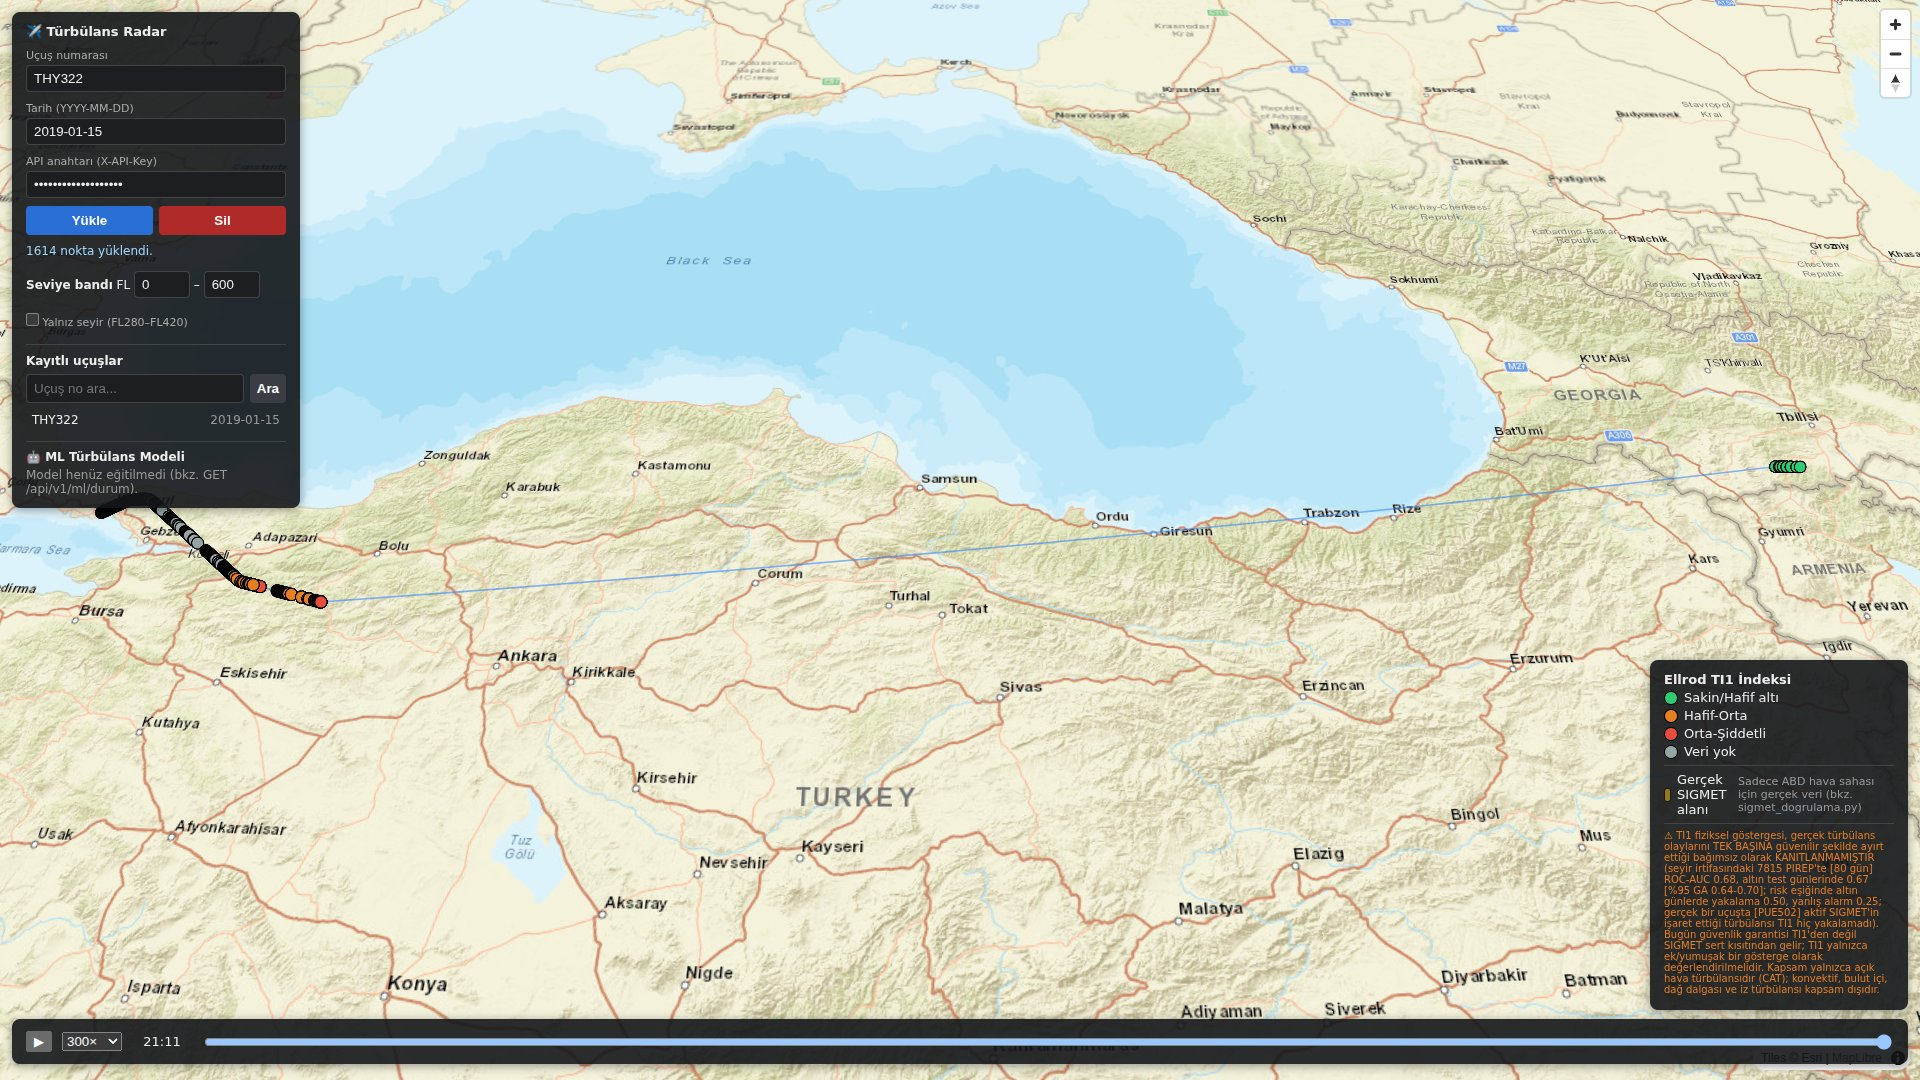
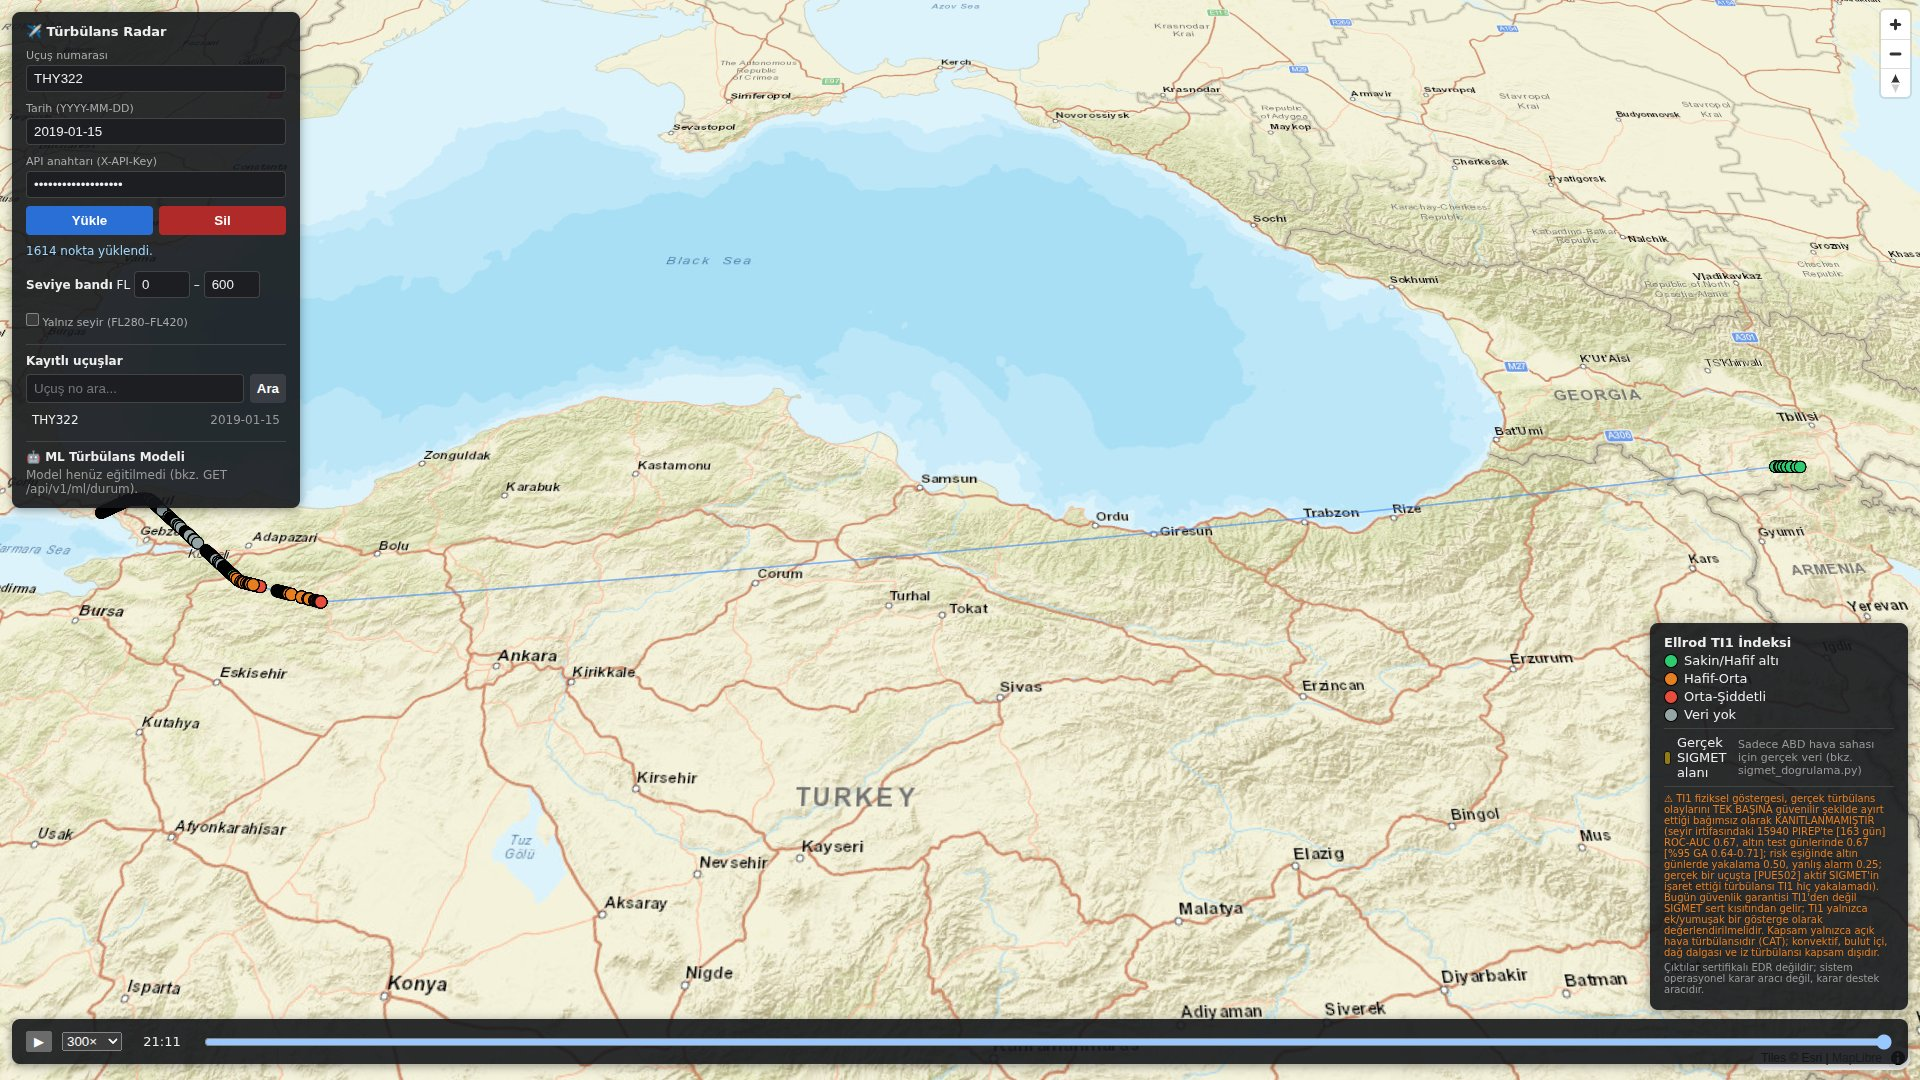
Demo ekranları 19 Ekim temiz klondan yenilendi; ekran aracı CSP uyumlu bekleme kullanıyor

diff --git a/src/turbulans_radar/cli/demo_ekranlari.py b/src/turbulans_radar/cli/demo_ekranlari.py
@@ -16,6 +16,7 @@ TURBULANS_API_ANAHTARI (yoksa API_ANAHTARI) ortam değişkeninden okunur.
 
 import argparse
 import os
+import time
 from urllib.parse import urlparse
 
 from turbulans_radar.konsol_kurulumu import konsolu_utf8_yap
@@ -49,6 +50,16 @@ SAAT_ILERLEDI = (
 )
 
 
+def _kosul_bekle(sayfa, ifade, timeout=30_000):
+    """wait_for_function dize koşulunu sayfada eval eder ve CSP (script-src 'self') bunu
+    engeller; page.evaluate engellenmez (tests/conftest.py ile aynı yöntem)."""
+    bitis = time.monotonic() + timeout / 1000
+    while not sayfa.evaluate(ifade):
+        if time.monotonic() > bitis:
+            raise TimeoutError(f"Koşul {timeout} ms içinde sağlanmadı: {ifade}")
+        time.sleep(0.2)
+
+
 def ag_engelleyici(engellenenler: list):
     """Playwright route işleyicisi: yerel olmayan istekleri keser ve kaydeder."""
 
@@ -76,9 +87,9 @@ def harita3d(sayfa, taban_url, anahtar, yol):
     sayfa.fill("#giris-tarih", DEMO_TARIHI)
     sayfa.fill("#giris-anahtar", anahtar)
     sayfa.click("#yukle-buton")
-    sayfa.wait_for_function("document.getElementById('durum').innerText.includes('nokta yüklendi')", timeout=60_000)
-    sayfa.wait_for_function(
-        "!document.getElementById('model-bilgisi-govde').innerText.includes('Uçuş yüklenince')", timeout=30_000
+    _kosul_bekle(sayfa, "document.getElementById('durum').innerText.includes('nokta yüklendi')", timeout=60_000)
+    _kosul_bekle(
+        sayfa, "!document.getElementById('model-bilgisi-govde').innerText.includes('Uçuş yüklenince')", timeout=30_000
     )
     sayfa.wait_for_timeout(4000)
     sayfa.screenshot(path=yol, type="jpeg", quality=85)
@@ -89,9 +100,7 @@ def simulasyon(sayfa, taban_url, anahtar, senaryo, yol):
     sayfa.goto(f"{taban_url}/harita/ucus_simulasyonu.html")
     sayfa.fill("#giris-anahtar", anahtar)
     sayfa.dispatch_event("#giris-anahtar", "change")
-    sayfa.wait_for_function(
-        "document.querySelectorAll('#ucak-modeli option[value=\"A320\"]').length > 0", timeout=30_000
-    )
+    _kosul_bekle(sayfa, "document.querySelectorAll('#ucak-modeli option[value=\"A320\"]').length > 0", timeout=30_000)
     sayfa.select_option("#ucak-modeli", "A320")
     for kimlik, deger in (
         ("#baslangic-enlem", senaryo["baslangic"][0]),
@@ -103,8 +112,8 @@ def simulasyon(sayfa, taban_url, anahtar, senaryo, yol):
         sayfa.fill(kimlik, str(deger))
     sayfa.fill("#zaman", senaryo["zaman"])
     sayfa.click("#simule-et-buton")
-    sayfa.wait_for_function("document.getElementById('s-optimize-sure').innerText.trim().length > 0", timeout=120_000)
-    sayfa.wait_for_function(SAAT_ILERLEDI, timeout=60_000)
+    _kosul_bekle(sayfa, "document.getElementById('s-optimize-sure').innerText.trim().length > 0", timeout=120_000)
+    _kosul_bekle(sayfa, SAAT_ILERLEDI, timeout=60_000)
     sayfa.wait_for_timeout(2000)
     sayfa.screenshot(path=yol, type="jpeg", quality=85)
     return sayfa.inner_text("#strateji-satiri") + " | " + sayfa.inner_text("#tasarruf-satiri")

diff --git a/docs/ISLEM_GUNLUGU.md b/docs/ISLEM_GUNLUGU.md
@@ -2,12 +2,14 @@
 
 Her oturumun kısa özeti, en yeni üstte. Telefondan (GitHub mobil) okunmak için kısa tutulur.
 
-## 2026-10-19 (öğleden sonra; PR #99–#100)
+## 2026-10-19 (öğleden sonra; PR #99–#101)
 
 - ✅ Rota performansı (şarjda): kütle bandı yavaşlatmıştı (0,25–0,69 sn); yinelenen OpenAP hesabı kaldırıldı, sonuç aynı, 0,10–0,42 sn.
 - ✅ `deney_protokolu.md` §10: yeni günlerde geniş özellik seti, Fikir 4/8 önceden kayıtlı; 163 dondurma günü `ml/dondurma_gunleri.json`.
 - ✅ P1-5 `.dockerignore`, P1-1 log rotasyonu, P1-6 sunucu başlığı, P1-9 AIRAC 7 gün uyarısı, Y-2 `docker-compose.uretim.yml`, S-7 etiketi.
 - ✅ Komite C-3, C-5, C-8 belge düzeltmeleri; durum KOMITE_INCELEMESI "19 Ekim durumu".
+- ✅ Yığın yeni imajla yeniden başlatıldı (log sınırı etkin, `server` başlığı yok); AWC `airsigmet` boş akış (204), dış kaynak.
+- ✅ Demo ekranları temiz klondan yenilendi (sayılar aynı); ekran aracı CSP'ye takılıyordu, `page.evaluate` yoklamasıyla düzeltildi.
 
 ## 2026-10-19
 

diff --git a/docs/YAPILACAKLAR.md b/docs/YAPILACAKLAR.md
@@ -43,7 +43,7 @@ Yarım kalan ya da dış koşul bekleyen işler. Ayrıntı: `docs/ISLEM_GUNLUGU.
   `content-security-policy` başlığını ve iki sayfanın açıldığını kontrol et.
 - [x] (19 Ekim, yukarıdaki madde) **Rota performansı (şarjdayken):** yukarıdaki 18 Ekim maddesi; SISTEM_KARTI §1'deki
   `docs/sonuclar/2026-10-07/rota_performansi.md` bağlantısı ve süreler nihai pakete taşınır.
-- [ ] **Demo ekranlarını yenile:** `TI1_GUVENILIRLIK_NOTU` metni (15.940 PIREP / 163 gün) ve
+- [x] (19 Ekim, temiz klon `071ecdb`, sayılar aynı; ekran aracı CSP'ye takılıyordu, düzeltildi) **Demo ekranlarını yenile:** `TI1_GUVENILIRLIK_NOTU` metni (15.940 PIREP / 163 gün) ve
   `harita3d.html`'deki "karar destek aracıdır" satırı değişti; `docs/sunum/ekranlar/`
   görüntüleri eski metni gösteriyor. İmaj derlendikten sonra temiz klondan (5532/8100 portları).
 - [ ] **GitHub Destek talebi (P0-9, kullanıcı):** PR #1'deki eski OpenSky şifresi; metin

diff --git a/docs/sunum/DEMO_SENARYOSU.md b/docs/sunum/DEMO_SENARYOSU.md
@@ -4,7 +4,8 @@ Jüri sunumundaki canlı demo ve yedek video için adım adım akış. Demo, dep
 demo paketiyle (THY322, 15 Ocak 2019, gerçek OpenSky izi + ERA5 dilimi) **ağ
 bağlantısı ve kimlik bilgisi olmadan** çalışır. Aşağıdaki tüm sayılar bu paketle
 14 Ekim 2026'da temiz demo klonunda (yalnız depodaki ERA5 dilimi ve örnek kısıtlı sahalar, ağsız provada) alınmış gerçek çıktılardır; ekran görüntüleri `ekranlar/`
-klasöründedir ve `turbulans-demo-ekranlari` ile yeniden üretilir.
+klasöründedir ve `turbulans-demo-ekranlari` ile yeniden üretilir (son yenileme 19 Ekim 2026,
+temiz klon, commit `071ecdb`; sayılar değişmedi: %9,55 ek yakıt, ~26 dk riskli bölüm).
 
 Sistem sertifikalı EDR üretmez; karar destek aracıdır. Demo boyunca bu cümle
 en az bir kez söylenmelidir.
